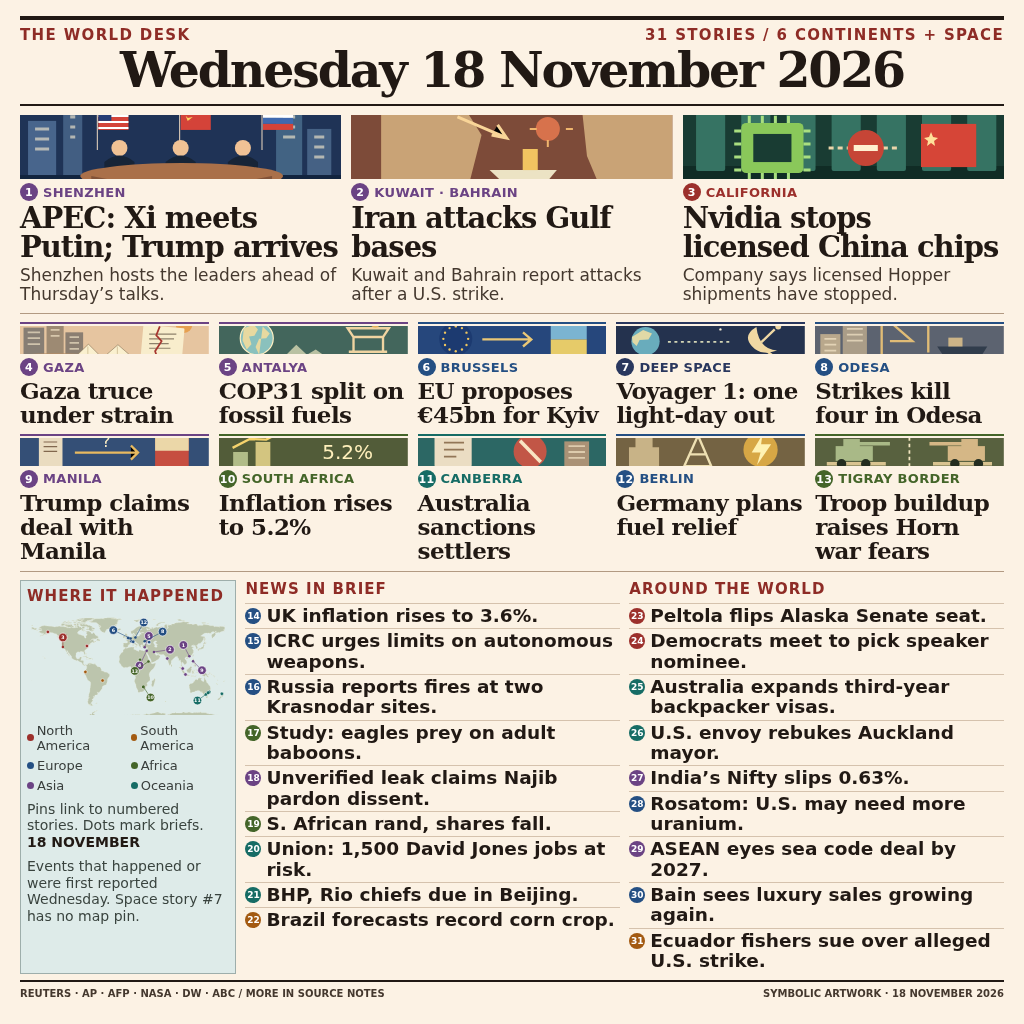
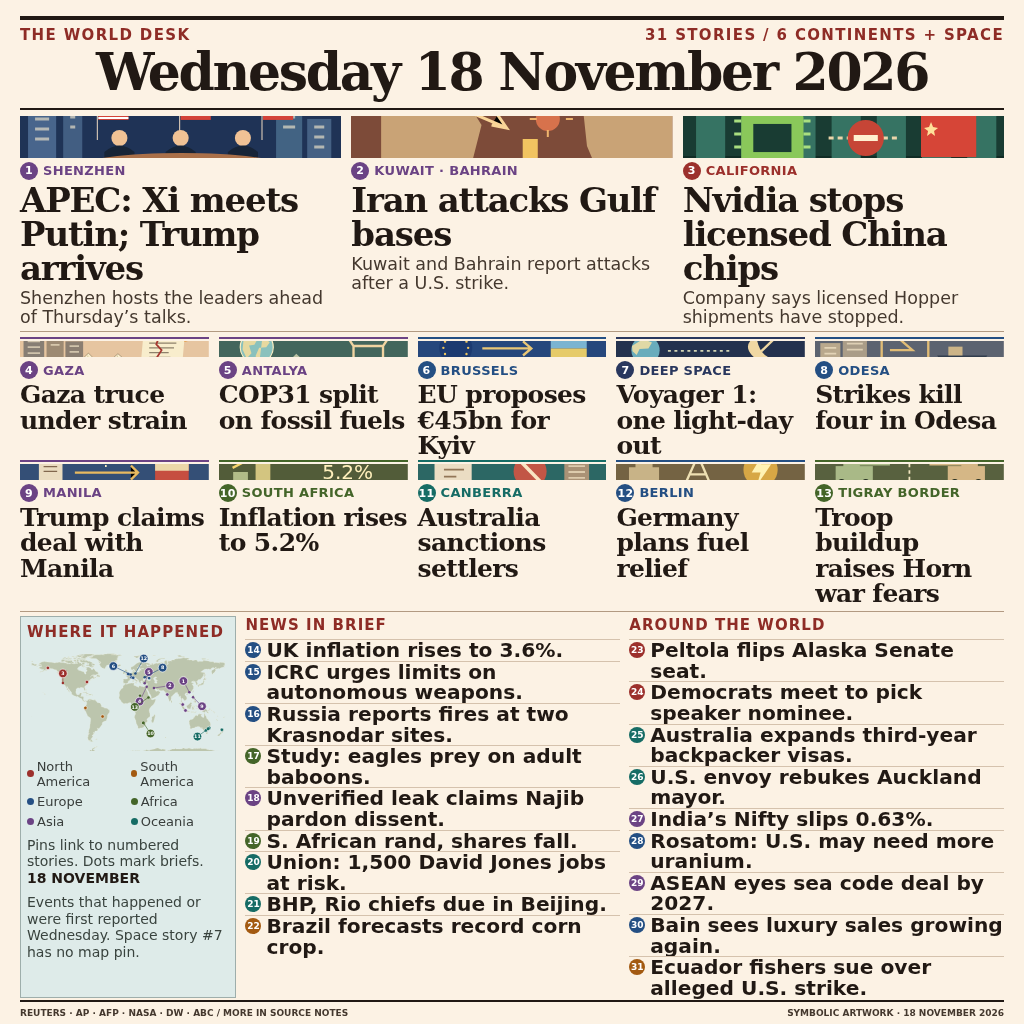
Improve headline readability and responsive layout

diff --git a/frontpage.html b/frontpage.html
@@ -1,5 +1,5 @@
 <!doctype html>
-<html lang="en"><meta charset="utf-8"><meta name="viewport" content="width=1024"><title>The World Desk | 18 November 2026</title>
+<html lang="en"><meta charset="utf-8"><meta name="viewport" content="width=device-width, initial-scale=1"><title>The World Desk | 18 November 2026</title>
 <style>
 :root{--paper:#f7eee0;--ink:#251d17;--sub:#50443a;--rule:#b8a18a;--red:#9d312b}*{box-sizing:border-box}html,body{width:1024px;min-height:1024px;margin:0}body{padding:19px 24px 12px;background:var(--paper);color:var(--ink);font:14px Arial,sans-serif}h1,h2,p{margin:0}header{padding:7px 0 8px;border-top:4px solid var(--ink);border-bottom:2px solid var(--ink)}.strap,footer{display:flex;justify-content:space-between;text-transform:uppercase;font-weight:bold;letter-spacing:.12em;font-size:11px;color:var(--red)}h1,h2{font-family:Georgia,serif}h1{text-align:center;font-size:61px;line-height:1.08;letter-spacing:-.045em}.news{display:grid;gap:12px}.lead{grid-template-columns:repeat(3,minmax(0,1fr));margin-top:12px;padding-bottom:12px;border-bottom:1px solid var(--rule)}.mid{grid-template-columns:repeat(5,minmax(0,1fr));gap:11px;margin-top:10px;padding-bottom:11px;border-bottom:1px solid var(--rule)}article{min-width:0}article svg{display:block;width:100%;height:94px}.mid svg{height:40px}.meta{display:flex;align-items:center;gap:5px;margin:4px 0 3px;text-transform:uppercase;letter-spacing:.07em;font-size:10px;font-weight:800;color:var(--color)}.num{background:var(--color);color:white;display:inline-grid;place-items:center;min-width:17px;height:17px;border-radius:50%;font:bold 10px Arial;flex:none}article h2{font-size:26px;line-height:1.03;letter-spacing:-.025em}article p{font-size:14px;line-height:1.23;color:var(--sub);margin-top:4px}.mid h2{font-size:18px;line-height:1.06}.mid p{font-size:12.5px;line-height:1.19}.bottom{display:grid;grid-template-columns:34% 1fr 1fr;gap:11px;margin-top:10px}.label{font:bold 11px Arial;text-transform:uppercase;letter-spacing:.11em;color:var(--red);margin-bottom:5px}.map{background:#deebe9;padding:8px;border:1px solid #9eaeab;min-width:0;align-self:stretch}.atlas{position:relative;aspect-ratio:340/174;margin-top:7px}.atlas img,.atlas svg{position:absolute;width:100%;height:100%}.legend{display:flex;gap:5px 10px;flex-wrap:wrap;margin-top:8px;font-size:10px;color:#393e3c}.legend span{display:flex;align-items:center;gap:3px}.legend i{width:7px;height:7px;border-radius:50%;background:var(--color)}.map p{font-size:11px;line-height:1.25;color:#39433e;margin-top:8px}.briefs{list-style:none;margin:0;padding:0;display:grid;gap:5px}.briefs li{display:flex;gap:5px;align-items:flex-start;font-size:13px;line-height:1.16}.briefs .num{min-width:16px;height:16px;font-size:9px}.briefs strong{color:var(--color)}footer{margin-top:9px;padding-top:6px;border-top:2px solid var(--ink);letter-spacing:.055em;color:var(--sub);font-size:10px}
 /* Fit all reporting on the square canvas without clipping or hidden overflow. */

diff --git a/index.html b/index.html
@@ -1,5 +1,5 @@
 <!doctype html>
-<html lang="en"><meta charset="utf-8"><meta name="viewport" content="width=1024"><title>The World Desk | 18 November 2026</title>
+<html lang="en"><meta charset="utf-8"><meta name="viewport" content="width=device-width, initial-scale=1"><title>The World Desk | 18 November 2026</title>
 <style>
 :root{--paper:#f7eee0;--ink:#251d17;--sub:#50443a;--rule:#b8a18a;--red:#9d312b}*{box-sizing:border-box}html,body{width:1024px;min-height:1024px;margin:0}body{padding:19px 24px 12px;background:var(--paper);color:var(--ink);font:14px Arial,sans-serif}h1,h2,p{margin:0}header{padding:7px 0 8px;border-top:4px solid var(--ink);border-bottom:2px solid var(--ink)}.strap,footer{display:flex;justify-content:space-between;text-transform:uppercase;font-weight:bold;letter-spacing:.12em;font-size:11px;color:var(--red)}h1,h2{font-family:Georgia,serif}h1{text-align:center;font-size:61px;line-height:1.08;letter-spacing:-.045em}.news{display:grid;gap:12px}.lead{grid-template-columns:repeat(3,minmax(0,1fr));margin-top:12px;padding-bottom:12px;border-bottom:1px solid var(--rule)}.mid{grid-template-columns:repeat(5,minmax(0,1fr));gap:11px;margin-top:10px;padding-bottom:11px;border-bottom:1px solid var(--rule)}article{min-width:0}article svg{display:block;width:100%;height:94px}.mid svg{height:40px}.meta{display:flex;align-items:center;gap:5px;margin:4px 0 3px;text-transform:uppercase;letter-spacing:.07em;font-size:10px;font-weight:800;color:var(--color)}.num{background:var(--color);color:white;display:inline-grid;place-items:center;min-width:17px;height:17px;border-radius:50%;font:bold 10px Arial;flex:none}article h2{font-size:26px;line-height:1.03;letter-spacing:-.025em}article p{font-size:14px;line-height:1.23;color:var(--sub);margin-top:4px}.mid h2{font-size:18px;line-height:1.06}.mid p{font-size:12.5px;line-height:1.19}.bottom{display:grid;grid-template-columns:34% 1fr 1fr;gap:11px;margin-top:10px}.label{font:bold 11px Arial;text-transform:uppercase;letter-spacing:.11em;color:var(--red);margin-bottom:5px}.map{background:#deebe9;padding:8px;border:1px solid #9eaeab;min-width:0;align-self:stretch}.atlas{position:relative;aspect-ratio:340/174;margin-top:7px}.atlas img,.atlas svg{position:absolute;width:100%;height:100%}.legend{display:flex;gap:5px 10px;flex-wrap:wrap;margin-top:8px;font-size:10px;color:#393e3c}.legend span{display:flex;align-items:center;gap:3px}.legend i{width:7px;height:7px;border-radius:50%;background:var(--color)}.map p{font-size:11px;line-height:1.25;color:#39433e;margin-top:8px}.briefs{list-style:none;margin:0;padding:0;display:grid;gap:5px}.briefs li{display:flex;gap:5px;align-items:flex-start;font-size:13px;line-height:1.16}.briefs .num{min-width:16px;height:16px;font-size:9px}.briefs strong{color:var(--color)}footer{margin-top:9px;padding-top:6px;border-top:2px solid var(--ink);letter-spacing:.055em;color:var(--sub);font-size:10px}
 /* Fit all reporting on the square canvas without clipping or hidden overflow. */

diff --git a/layout-check.html b/layout-check.html
@@ -1,0 +1,55 @@
+<!doctype html>
+<html lang="en">
+<meta charset="utf-8">
+<meta name="viewport" content="width=device-width, initial-scale=1">
+<title>World Desk layout check</title>
+<style>
+*{box-sizing:border-box}
+body{margin:1rem;font:16px Arial,sans-serif;color:#211914;background:#fcf2e4}
+iframe{position:absolute;left:-12000px;top:0;border:0}
+pre{white-space:pre-wrap}
+</style>
+<h1>World Desk layout check</h1>
+<pre id="result">Checking…</pre>
+<script>
+const sizes=[1024,600,300];
+const modes=['','?open=1'];
+const delay=ms=>new Promise(resolve=>setTimeout(resolve,ms));
+async function check(width,mode){
+ const frame=document.createElement('iframe');
+ frame.title=`${width}px ${mode||'default'} preview`;
+ frame.style.width=`${width}px`;
+ frame.style.height='1024px';
+ const loaded=new Promise(resolve=>frame.addEventListener('load',resolve,{once:true}));
+ frame.src=new URL(`frontpage.html${mode}`,location.href);
+ document.body.append(frame);
+ await loaded;
+ await delay(100);
+ const w=frame.contentWindow,d=frame.contentDocument;
+ const hide=d.createElement('style');
+ hide.textContent='html{scrollbar-width:none}::-webkit-scrollbar{display:none}';
+ d.head.append(hide);
+ const css=e=>getComputedStyle(e);
+ const headline=d.querySelector('.lead h2');
+ const card=d.querySelector('.mid h2');
+ const brief=d.querySelector('.briefs li');
+ const overflowing=[...d.querySelectorAll('h1,h2,p,.meta,.briefs li,.legend,.strap span,footer span')]
+  .filter(e=>e.scrollWidth>e.clientWidth+1).length;
+ const footer=d.querySelector('footer').getBoundingClientRect();
+ const sections=['header','.lead','.mid','.bottom','footer'].map(selector=>{const r=d.querySelector(selector).getBoundingClientRect();return {name:selector,top:+r.top.toFixed(2),bottom:+r.bottom.toFixed(2)}});
+ const counts={lead:d.querySelectorAll('.lead article').length,cards:d.querySelectorAll('.mid article').length,briefs:d.querySelectorAll('.briefs li').length};
+ const html=d.documentElement,body=d.body;
+ const result={width,open:!!mode,fonts:{lead:parseFloat(css(headline).fontSize),card:parseFloat(css(card).fontSize),brief:parseFloat(css(brief).fontSize)},counts,sections,textOverflow:overflowing,horizontalOverflow:html.scrollWidth>w.innerWidth||body.scrollWidth>w.innerWidth,footerBottom:Math.round(footer.bottom),squareOverflow:width===1024&&footer.bottom>1024};
+ frame.remove();
+ return result;
+}
+(async()=>{
+ const results=[];
+ for(const width of sizes)for(const mode of modes)results.push(await check(width,mode));
+ const pass=results.every(r=>r.textOverflow===0&&!r.horizontalOverflow&&!r.squareOverflow&&(r.width!==1024||(r.fonts.lead>=32&&r.fonts.card>=25&&r.fonts.brief>=19))&&(r.width===1024||r.fonts.lead>=16&&r.fonts.card>=16&&r.fonts.brief>=15.5));
+ const report={pass,results};
+ document.getElementById('result').textContent=JSON.stringify(report,null,2);
+ document.documentElement.dataset.pass=String(pass);
+})();
+</script>
+</html>

diff --git a/edition.css b/edition.css
@@ -25,19 +25,45 @@ h1{font-size:54px;line-height:1.09}
 .briefs .num{margin-top:2px}
 footer{font-size:12px;letter-spacing:.045em;margin-top:6px}
 /* The thumbnail is the primary reading surface. Keep the news cards compact. */
-h1{font-size:49px}
-.lead svg{height:64px}
-.lead h2{font-size:29px}
-.lead p{font-size:17px;line-height:1.12}
-.mid svg{height:28px}
-.mid h2{font-size:23px;line-height:1.04}
+h1{font-size:52px}
+.lead{margin-top:6px;padding-bottom:5px}
+.lead svg{height:42px}
+.lead h2{font-size:34px}
+.lead p{font-size:17.5px;line-height:1.08}
+.mid{margin-top:5px;padding-bottom:5px;row-gap:2px}
+.mid svg{height:16px}
+.mid h2{font-size:25px;line-height:1.01}
 .mid p{display:none}
-.mid{row-gap:7px}
-.meta{min-height:15px}
-.bottom{grid-template-columns:22% 1fr 1fr}
+.meta{min-height:14px}
+.bottom{grid-template-columns:22% 1fr 1fr;margin-top:4px}
 .briefs{gap:0}
-.briefs li{font-size:18.5px;line-height:1.1;padding:2px 0;font-weight:600}
-footer{font-size:10px;letter-spacing:0}
-body.open .bottom{grid-template-columns:27% 1fr 1fr}
-body.open .briefs li{font-size:17.5px;line-height:1.12;font-weight:500}
-body.open .lead svg{height:78px}
+.briefs li{font-size:20.2px;line-height:1.02;padding:0;font-weight:600}
+body{padding-bottom:0}
+footer{font-size:9px;letter-spacing:0;margin-top:2px}
+body.open .bottom{grid-template-columns:22% 1fr 1fr}
+body.open .briefs li{font-size:19.2px;line-height:1.04;font-weight:600}
+body.open .lead svg{height:42px}
+
+@media(max-width:600px){
+ html,body{width:100%;min-width:0;min-height:100%;height:auto}
+ body{padding:12px}
+ header{padding:8px 0}
+ .strap{gap:6px;flex-wrap:wrap;font-size:10px;letter-spacing:.07em}
+ h1{font-size:clamp(29px,9vw,44px);line-height:1.02;letter-spacing:-.04em}
+ .lead,.mid{grid-template-columns:minmax(0,1fr);gap:8px;margin-top:10px;padding-bottom:10px}
+ .lead article,.mid article{display:grid;grid-template-columns:64px minmax(0,1fr);align-items:start;column-gap:8px;padding:5px 0;border-top:1px solid var(--color)}
+ .lead article svg,.mid article svg{grid-column:1;grid-row:1/4;width:64px;height:64px}
+ .lead .meta,.mid .meta{grid-column:2;grid-row:1;margin:0 0 2px;min-height:0;font-size:10px}
+ .lead h2,.mid h2{grid-column:2;grid-row:2;font-size:17px;line-height:1.08}
+ .lead p,.mid p{grid-column:2;grid-row:3;display:block;font-size:13px;line-height:1.2;margin-top:3px}
+ .bottom,body.open .bottom{grid-template-columns:minmax(0,1fr);gap:14px}
+ .map{padding:8px}
+ .atlas{max-width:340px;margin:7px auto 0}
+ .legend{display:grid;grid-template-columns:repeat(3,minmax(0,1fr));font-size:12px}
+ .map p{font-size:13px}
+ .bottom>section{min-width:0}
+ .label{font-size:13px}
+ .briefs li,body.open .briefs li{font-size:15.5px;line-height:1.2;padding:3px 0}
+ .briefs .num{margin-top:2px}
+ footer{display:grid;grid-template-columns:minmax(0,1fr);gap:5px;font-size:10px;letter-spacing:0;line-height:1.2}
+}

diff --git a/README.md b/README.md
@@ -18,7 +18,7 @@ This writes `out/entry.png`. `index.html` is the editable HTML/SVG source, with 
 
 ## Revision checks
 
-The Chromium render is exactly 1024×1024. `layout-audit.json` records all 31 stories and section bounds; the last footer edge is within the canvas. A 300×300 thumbnail and a second layout variant were rendered and visually compared with R2 and public Top 20 images. The bolder, larger-type candidate was selected; this is a design judgment, not a predicted judge score. `SOURCES.md` maps every item to reporting and distinguishes dates, forecasts and allegations. Most reporting and artwork were reused from R2; targeted free public-page checks added missing space, science, Africa and policy coverage. No paid judge calls or credits were bought.
+The Chromium render is exactly 1024×1024. `layout-audit.json` records the measured desktop section bounds and responsive checks; the footer stays inside the square canvas. The larger-type edition uses 34px lead headlines, 25px secondary headlines and 20.2px briefs on the default square view. `layout-check.html` is a self-contained browser audit of both layout variants at 1024px, 600px and 300px; it checks text overflow, horizontal overflow and the square footer bound. At narrow widths the page reflows into one column. `SOURCES.md` maps every item to reporting and distinguishes dates, forecasts and allegations. Most reporting and artwork were reused from R2; targeted free public-page checks added missing space, science, Africa and policy coverage. No paid judge calls or credits were bought.
 
 ## Reporting sources
 
